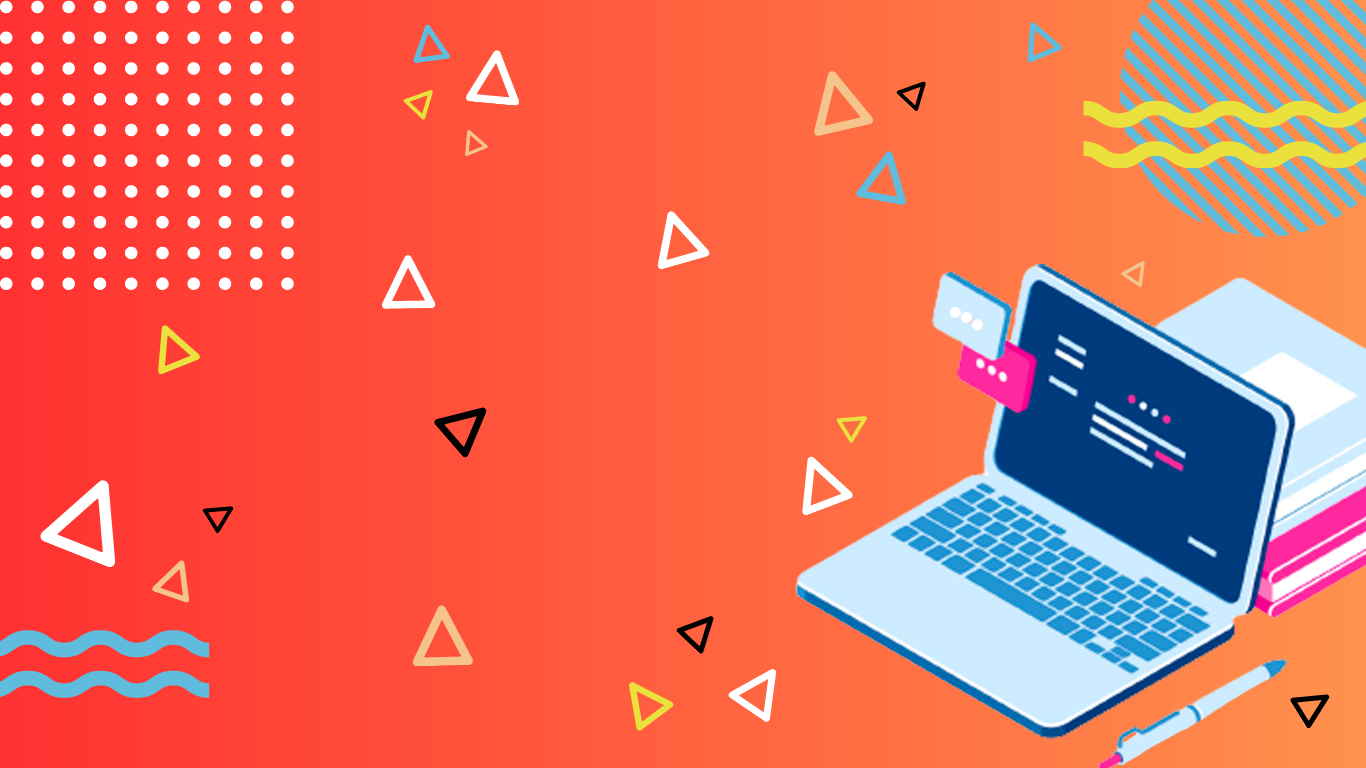
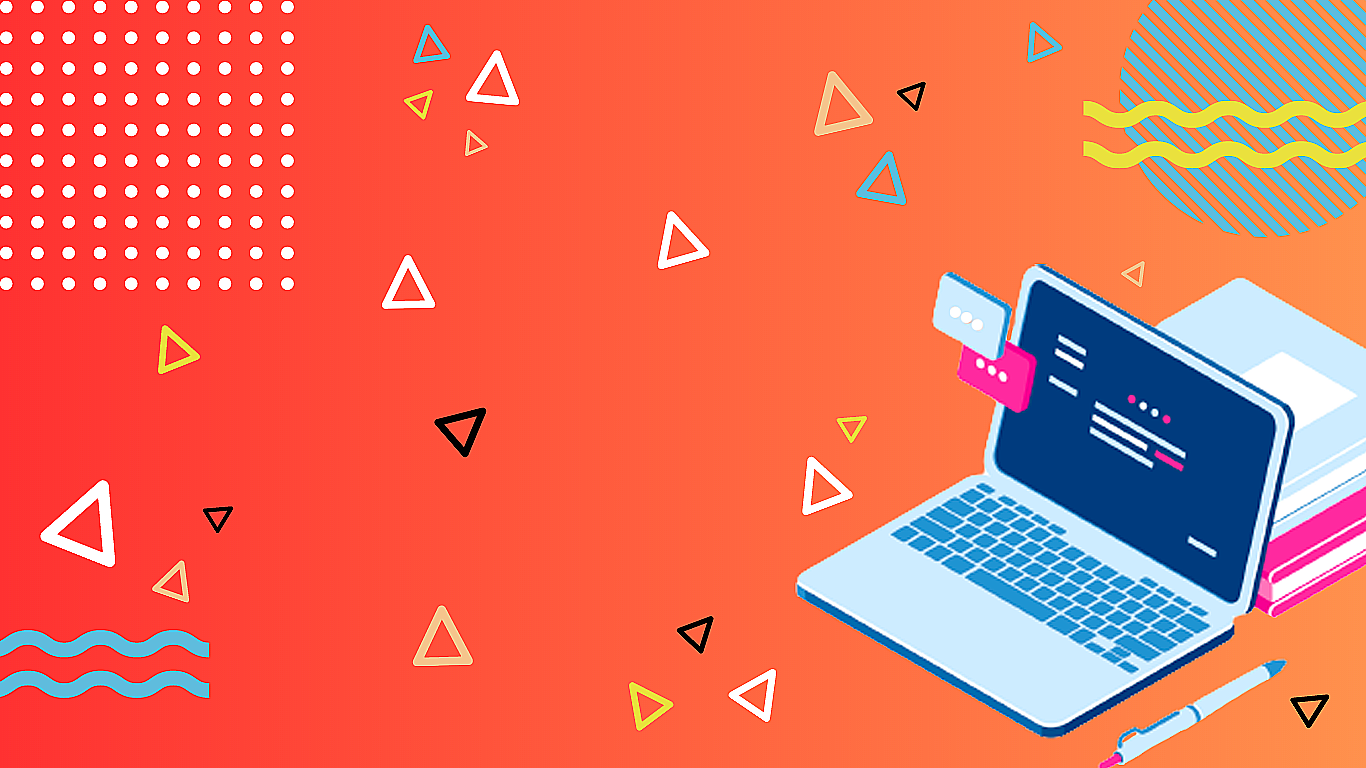
Detalle del fondo del login arreglado.
No se mostraba correctamente la imagen de fondo del login.

diff --git a/css/login.css b/css/login.css
@@ -1,9 +1,9 @@
 /*Start login style*/
 
 #IngresoLogin{
-    background-image: url(/img/Fondo_login.png) !important;
+    background-image: url(/img/Fondo_login.png), linear-gradient(to left, #ff914d, #ff3131) !important;
     background-repeat: no-repeat;
-    background-size: cover;
+    background-size: contain;
   }
   .container2{ /*This part is the colored box that cotains the form*/
     width: 600px;
